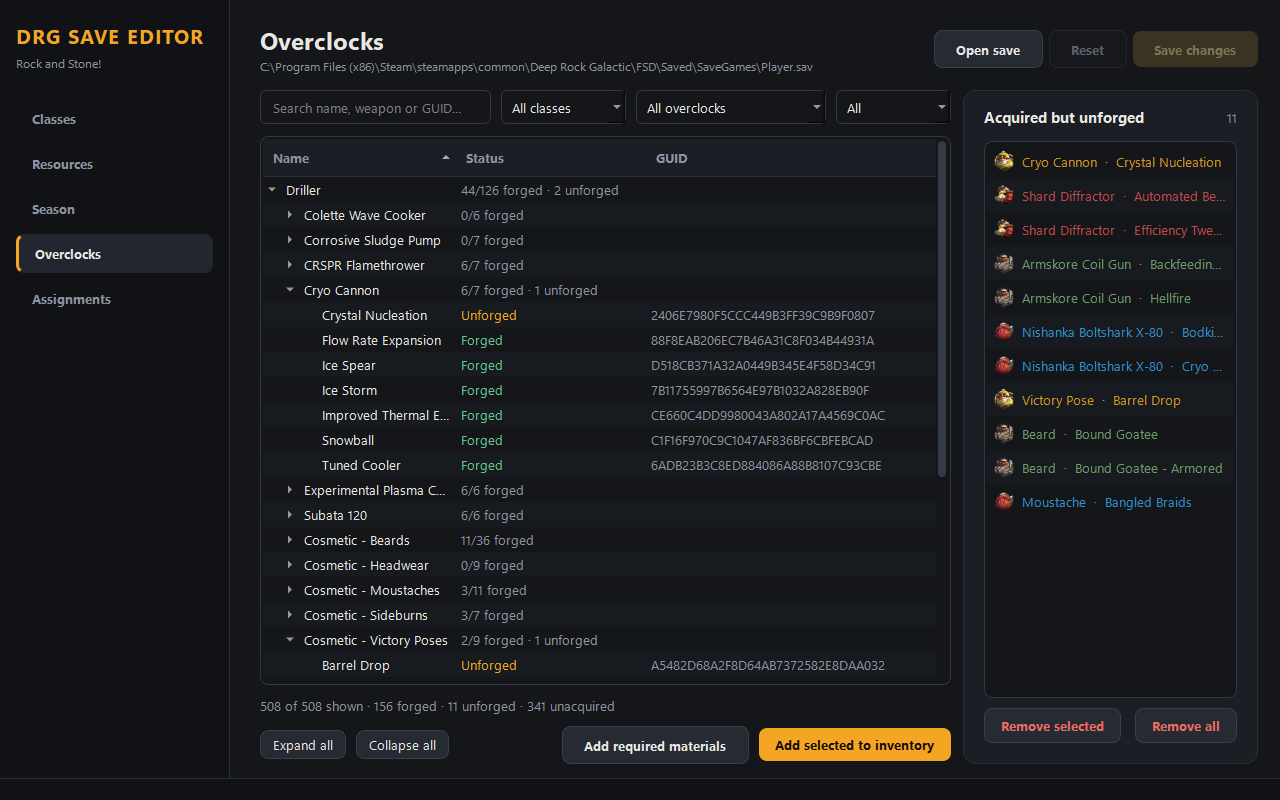
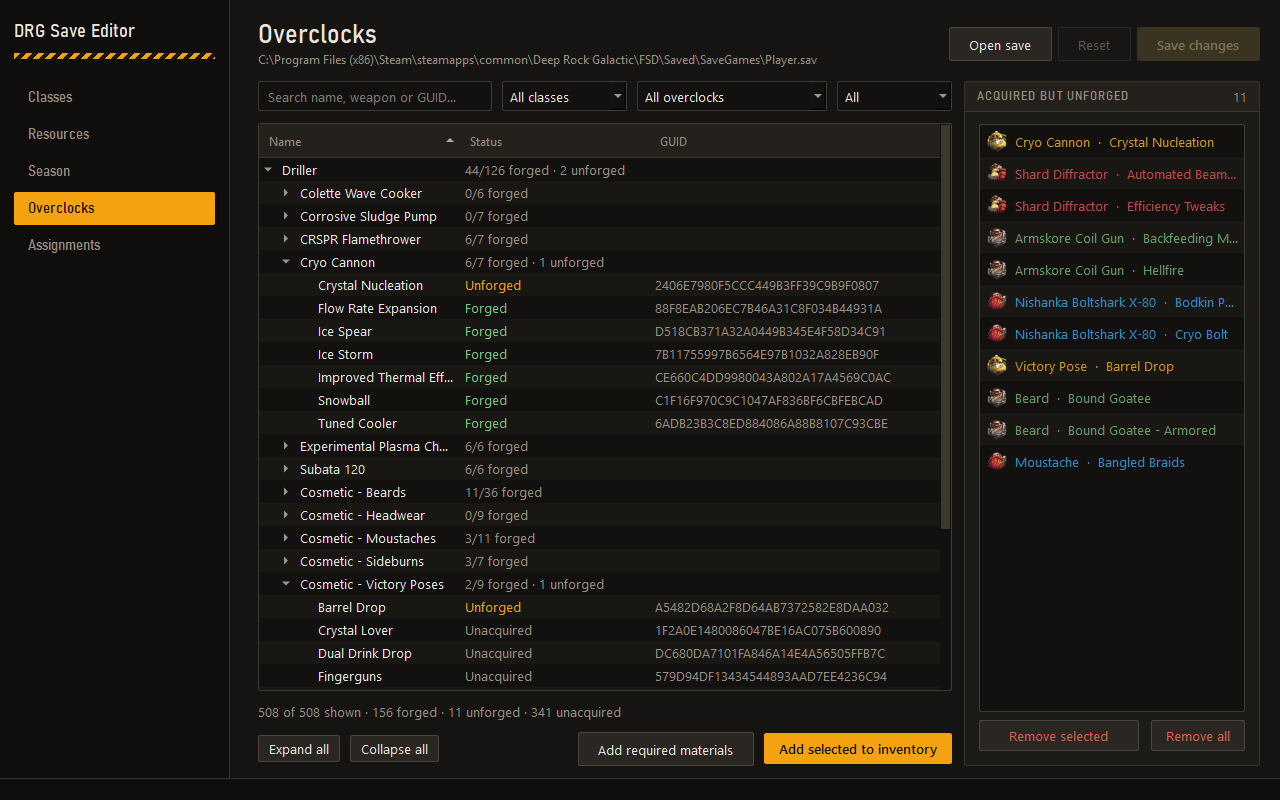
Adding new screenshots, slimming down readme

diff --git a/readme.md b/readme.md
@@ -21,7 +21,6 @@ Run it from the repository root, since `guids.json`, `cosmetics.json` and `campa
 
 ## Known Issues
 - The editor still finds most values (resources, XP, credits, perk points, promotions) by searching the raw save data. If something isn't in the save yet (e.g. a resource you've never owned) the editor can give nonsensical results. The solution is to acquire at least one of the resource in game _then_ use the editor.
-- Only some cosmetic overclocks are known: beards, moustaches, sideburns, headwear, victory poses and weapon skins. Any other overclock you have acquired but not forged is listed as "Unknown overclock" and kept in your save. Cosmetics that are not overclocks (armor paint jobs, hair and skin colours, ...) cannot be edited yet.
 
 ## Troubleshooting
 If the editor fails to start, please run it from source (see Running from source) in a command prompt. This will let you see any error messages that will be necessary for bug fixes. 
@@ -32,15 +31,7 @@ If the editor opens but doesn't edit your save properly (i.e., values not being 
 ### ALWAYS BACKUP YOUR SAVE FILE!
 The editor will make a backup of the save file you open in the same folder as the save file with the extension of `.old`. The editor makes this backup at the moment you open the save file.
 
-The editor is split into pages, picked in the sidebar: Classes, Resources, Season, Overclocks and Assignments. Open a save, change what you want, and press **Save changes** (Ctrl+S). Save and Reset are only available while there are unsaved changes, which the top bar tells you about.
-
-Some notes:
-- Overclocks are grouped by class and then by weapon; the cosmetic overclocks (beards, victory poses, ...) have a group per kind after the weapons. Use the search box and the class, type (weapon or cosmetic) and status filters to narrow the list. Select overclocks (Ctrl+Click or Shift+Click for several) and press **Add selected to inventory**. Selecting a whole weapon, cosmetic group or class adds everything unacquired under it that is currently shown.
-- Added overclocks go to **Acquired but unforged** on the right and are written to your save when you save. The list shows the class initial (D, E, G, S) in the class colour, a dot, then the weapon or cosmetic kind, then the name; weapon overclocks come first. Remove them from there the same way. In game you can then forge them (use **Add required materials** to get the resources for everything in that list).
-- The Season page edits one season at a time; the newest season is selected by default.
-- On the Assignments page you can tick assignments as completed, assign one as your active assignment, or complete or unassign the active one. Changes take effect at once on screen and are written to the save with everything else. The weekly assignments (Core Hunt and Priority Assignment) are managed by the game and are not listed.
-- Changing XP values will update the other relevant fields when the focus changes (i.e., click on a different part of the program or another program entirely)
-- If you have promotions beyond Legendary 3 those promotions will be preserved as long as the drop-down is set to "Legendary 3+". If you don't have enough promotions for a specific dwarf and set them to "Legendary 3+" it will keep whatever the original value was.
+The editor is split into pages, picked in the sidebar: Classes, Resources, Season, Overclocks and Assignments. Open a save, change what you want, and press **Save changes** (Ctrl+S).
 
 ### Overclocks Tab
 ![overclocks](sshot.png)
@@ -50,10 +41,3 @@ Some notes:
 
 ## Data sources
 Overclock names, costs and GUIDs in `guids.json` were verified against the game's own data (extracted with FModel).
-
-## Would be nice, but ehh...
-- Character loadout support
-- Perk support
-- Weapon modification support
-- Milestone support
-- Bells & Whistles
